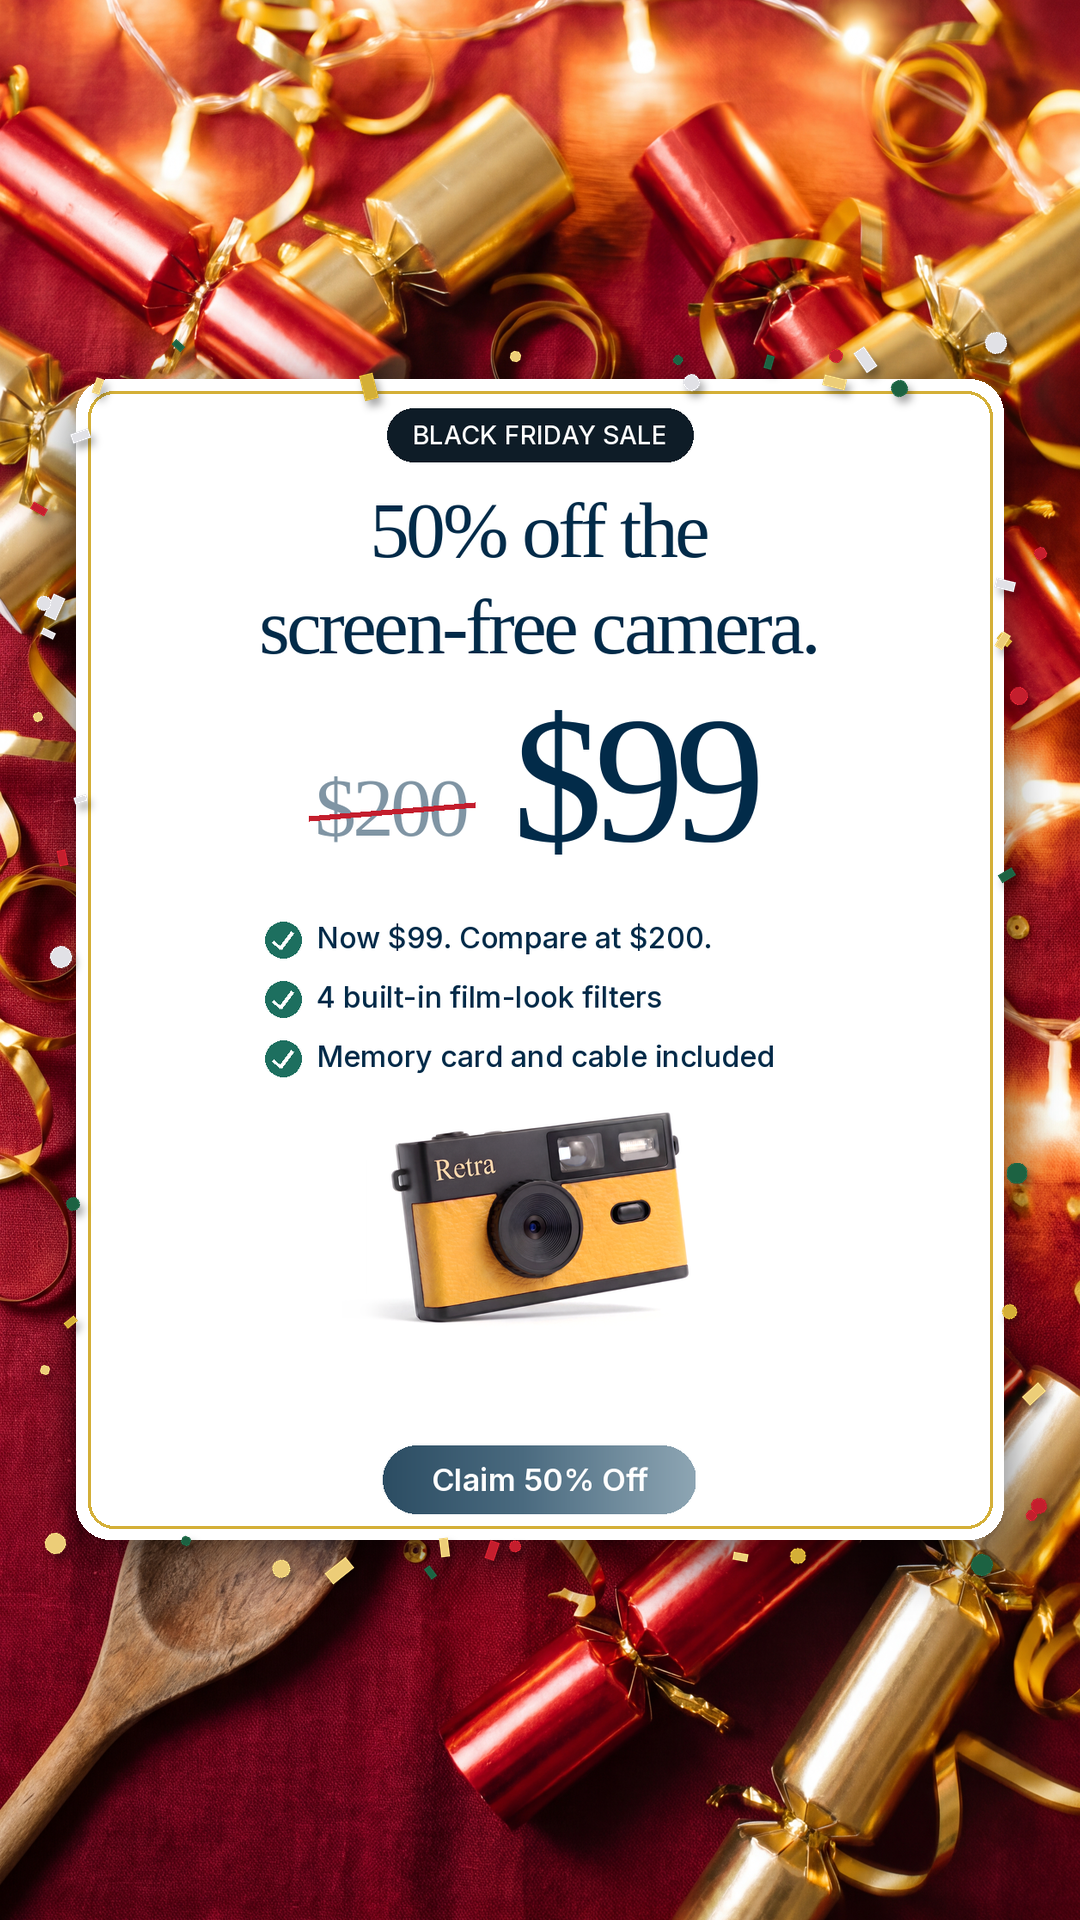
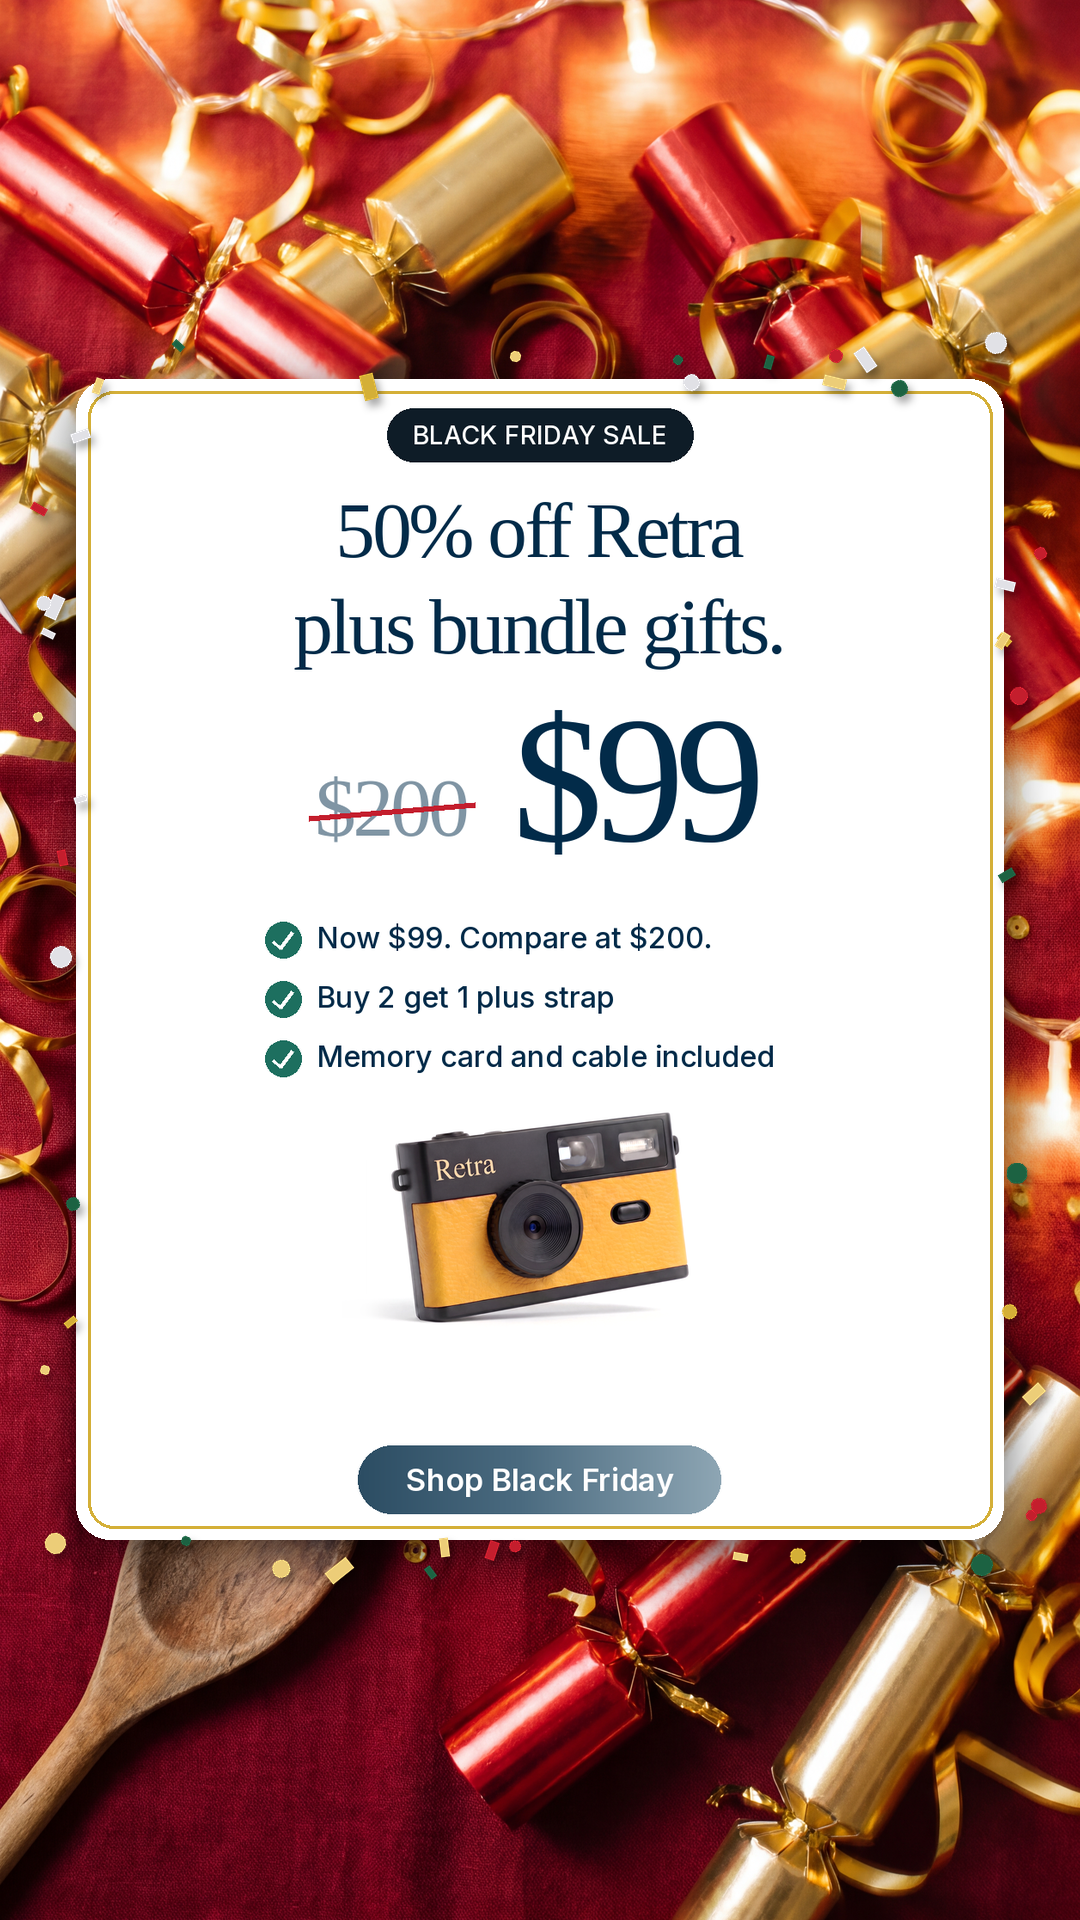
Retra W49: offer statics with bundle gifts (B2G1 + strap, B3G2 + strap + bag), new O8/O9 flat lays
Claude-Session: https://claude.ai/code/session_01Mp8pTs9zpTh5aGe4znSQmT

Changed region(s): [[0.2444, 0.25, 0.7639, 0.3438], [0.3361, 0.75, 0.6722, 0.8125], [0.275, 0.5, 0.6111, 0.5312]]

diff --git a/ads/brands/retra/weeks/2026-W49-angles/gift_render.py b/ads/brands/retra/weeks/2026-W49-angles/gift_render.py
@@ -1,0 +1,82 @@
+"""4K Kie shots for the bundle gifts (Sam 2026-11-27: B2G1 + free woven strap, B3G2 + strap + leather bag).
+Strap reference: the store's product photo (assets/retra/product/gifts/gift_strap.jpg). The store's bag photo 502s on
+the CDN, so the bag is rendered from a description.  python3 gift_render.py [ids...]"""
+import sys
+from concurrent.futures import ThreadPoolExecutor
+import render, batch2
+from render import kie, REPO
+
+WHITE = batch2.WHITE
+STRAP = ("a cream woven cotton camera wrist strap with tan leather end tabs and a small silver clip, exactly as in the"
+         " strap reference photo")
+BAG = ("a compact tan-brown leather camera case shaped to the camera, with a fold-over flap, fine stitching and a small"
+       " press stud, no logo")
+SIX = ["blossom", "sol", "pine", "chalk", "dune"]
+FEST = ("Real overhead photo on a deep red linen party table with scattered gold sequin confetti and warm string-light"
+        " bokeh at the edges, soft festive light, natural shadows.")
+J = {
+    "gift_strap": dict(refs=[], ar="1:1", style=WHITE, prompt=(
+        f"Product photo: {STRAP}, loosely coiled, alone on pure white, centred, nothing else in frame.")),
+    "gift_bag": dict(refs=[], ar="1:1", style=WHITE, prompt=(
+        f"Studio product photo: {BAG}, brand new and spotless, closed, standing upright, three-quarter view, alone on a"
+        " seamless pure white sweep, centred. No hands, no people, no other objects, no wear or scratches.")),
+    "flat_b2g1": dict(refs=["blossom", "sol", "pine"], ar="4:5", style=FEST, prompt=(
+        "Top-down flat lay: three Retra cameras (raspberry pink, mustard yellow, olive green) lying face up in a"
+        f" relaxed diagonal row across the middle of the frame, and {STRAP} coiled beside them on the right. Generous"
+        " space between items; top 25% of the frame is plain table.")),
+    "flat_b3g2": dict(refs=SIX, ar="4:5", style=FEST, prompt=(
+        "Top-down flat lay: five Retra cameras (raspberry pink, mustard yellow, olive green, off-white, caramel brown)"
+        f" lying face up in two neat rows in the middle of the frame, with {STRAP} coiled and {BAG} beside them at the"
+        " lower right. The same red linen table and confetti continue evenly to every edge of the frame (one continuous"
+        " surface, no plain band or seam); keep the upper quarter sparse so text can sit there.")),
+}
+orig = render.build_prompt
+
+
+def bp(job, fix=""):
+    p = orig(job, fix)
+    if not job["refs"]:
+        p = p.replace(", except the gold serif 'Retra' wordmark printed on the camera exactly as in the reference.",
+                      ". No cameras, brand names, wordmarks, logos or lettering anywhere.")
+    return p
+
+
+render.build_prompt = bp
+render.COLOURS["dune"] = "caramel brown"
+render.JOBS.update(J)
+_strap = None
+
+
+def strap_url():
+    global _strap
+    if _strap is None:
+        _strap = kie.upload(REPO / "assets/retra/product/gifts/gift_strap.jpg", "retra")
+    return _strap
+
+
+STRAP_JOBS = {"gift_strap", "flat_b2g1", "flat_b3g2"}
+
+
+def run(k, n=1):
+    import json
+    job = render.JOBS[k]
+    prompt = render.build_prompt(job)
+    imgs = [render.ref_url(c) for c in job["refs"]] + ([strap_url()] if k in STRAP_JOBS else [])
+    if k in STRAP_JOBS:
+        prompt += " The last reference image shows the strap only (ignore its camera and background)."
+    inp = {"prompt": prompt, "image_input": imgs, "aspect_ratio": job["ar"], "resolution": "4K", "output_format": "png"}
+    tid = kie.create("nano-banana-pro", inp)
+    path = kie.download(kie.wait(tid)[0], render.OUT / f"{k}_t{n}.png")
+    with open(render.OUT / "_usage.jsonl", "a") as f:
+        f.write(json.dumps({"ad": k, "try": n, "task_id": tid, "model": "nano-banana-pro", "prompt": prompt}) + "\n")
+    print("done", path.name, flush=True)
+
+
+if __name__ == "__main__":
+    ids = sys.argv[1:] or list(J)
+    strap_url()
+    for i in ids:
+        for c in J[i]["refs"]:
+            render.ref_url(c)
+    with ThreadPoolExecutor(4) as ex:
+        list(ex.map(lambda k: run(k, render.next_try(k)), ids))

diff --git a/ads/brands/retra/weeks/2026-W49-angles/holiday.py b/ads/brands/retra/weeks/2026-W49-angles/holiday.py
@@ -21,6 +21,7 @@ HERE = Path(__file__).resolve().parent
 CON = {c["id"]: c for c in json.load(open(HERE / "copy_holiday.json"))["concepts"]}
 COPY.update(CON)
 PICK = {"h_O5": "h_O5_t2", "h_N3": "h_N3_t2"}  # chosen takes
+b2.PICK.update({"gift_bag": "gift_bag_t2", "flat_b3g2": "flat_b3g2_t2"})
 COL = {}   # concept id -> camera colour key (set in holiday_render.py, mirrored here)
 PRICE_OLD, PRICE_NEW = "$200", "$99"
 RED_ = (196, 30, 45)
@@ -97,7 +98,7 @@ def t3(c):
     gap_sym = 70 if n == 3 else 56
     total = n * cw + (n - 1) * (20 if n == 3 else 10) + gap_sym
     x = (W - total) / 2 + cw / 2
-    cy = y + 270
+    cy = y + (270 if S(c, "bundle").upper().startswith("B2") else 160)
     fsym = tinos(110, -0.02)
     for i in range(n):
         if i == paid:  # the "+" between paid and free
@@ -110,9 +111,44 @@ def t3(c):
         x += cw + (20 if n == 3 else 10)
     d = ImageDraw.Draw(img)
     lab = f"Pay for {paid}. Get {n}."
-    draw_lines(img, [lab], tinos(76, -0.03), 80, cy + 230, INK, "center", 1, None, 920)
-    draw_lines(img, [f"{PRICE_NEW} each (was {PRICE_OLD})"], inter(34, "Medium"), 80, cy + 330, BODY, "center", 1, None, 920)
-    pill(img, S(c, "cta"), inter(36, "SemiBold"), W / 2, 1560, "cta", WHITE, padx=56, pady=18)
+    draw_lines(img, [lab], tinos(76, -0.03), 80, cy + 200, INK, "center", 1, None, 920)
+    draw_lines(img, [f"{PRICE_NEW} each (was {PRICE_OLD})"], inter(34, "Medium"), 80, cy + 292, BODY, "center", 1, None, 920)
+    # Sam 2026-11-27: B2G1 includes the free woven strap; B3G2 the strap + leather bag
+    gifts = GIFTS[:1] if paid == 2 else GIFTS
+    gy = cy + 480
+    gx = [W / 2] if len(gifts) == 1 else [W / 2 - 220, W / 2 + 220]
+    draw_lines(img, ["+ " + ("free gift" if len(gifts) == 1 else "2 free gifts")], tinos(52, -0.02), 80, gy - 105, RED_,
+               "center", 1, None, 920)
+    for (k, name, val), x_ in zip(gifts, gx):
+        g = b2.whiten(k, 300 if len(gifts) == 1 else 240, 0.12)
+        lib.multiply(img, g.convert("RGB"), x_, gy + 30)
+        pill(img, f"FREE {name} \u00b7 {val} value", inter(24, "Bold"), x_, gy + 165, RED_, WHITE, padx=16, pady=8)
+    pill(img, S(c, "cta"), inter(36, "SemiBold"), W / 2, 1585, "cta", WHITE, padx=56, pady=18)
+    return img
+
+
+GIFTS = [("gift_strap", "STRAP", "$29"), ("gift_bag", "BAG", "$50")]
+
+
+# ---------------------------------------------------------------- T11 festive bundle flat lay + gift tags
+def t11(c):
+    k = "flat_b2g1" if c == "O8" else "flat_b3g2"
+    src = b2.R(k)
+    if k == "flat_b3g2":  # Kie left a plain band with a seam across the top quarter
+        pass  # full frame keeps all five cameras; the plain band sits under the headline scrim
+    band = ImageOps.fit(src, (W, 1350), Image.LANCZOS, centering=(0.5, 0.45))
+    img = ImageOps.fit(band, (W, H), Image.LANCZOS).filter(ImageFilter.GaussianBlur(30)).convert("RGBA")
+    img.paste(band, (0, 285))
+    scrim_top(img, 860 if c == "O9" else 760, 245 if c == "O9" else 200)  # O9: hide the plain band's seam
+    y = head(img, S(c, "headline"), 330, WARM, 88, 58, 2, shadow=SH)
+    sub(img, S(c, "sub"), y + 12, WHITE, 36, 26, 2, shadow=SH, weight="Medium")
+    scrim_bottom(img, 1300, 190)
+    gifts = GIFTS[:1] if c == "O8" else GIFTS
+    tags = [f"FREE {n.title()} \u00b7 {v} value" for _, n, v in gifts]
+    xs = [W / 2] if len(tags) == 1 else [W / 2 - 230, W / 2 + 230]
+    for t, x_ in zip(tags, xs):
+        pill(img, t, inter(28, "Bold"), x_, 1478, RED_, WHITE, padx=20, pady=10)
+    pill(img, S(c, "cta"), inter(38, "SemiBold"), W / 2, 1550, "cta", WHITE, padx=56, pady=18)
     return img
 
 
@@ -344,7 +380,7 @@ def party(img, cid):
     return img
 
 
-T = {"T1": t1, "T2": t2, "T3": t3, "T4": t4, "T5": t5, "T6": t6, "T7": t7, "T8": t8, "T9": t9, "T10": t10}
+T = {"T11": t11, "T1": t1, "T2": t2, "T3": t3, "T4": t4, "T5": t5, "T6": t6, "T7": t7, "T8": t8, "T9": t9, "T10": t10}
 
 if __name__ == "__main__":
     ids = sys.argv[1:] or list(CON)

diff --git a/ads/brands/retra/weeks/2026-W49-angles/README.md b/ads/brands/retra/weeks/2026-W49-angles/README.md
@@ -94,3 +94,7 @@ Holiday-party theme (Sam: 'more unique and holiday party'): the 12 white layouts
 rule, ribbon corner on gifting) on five festive backdrops (`festive_render.py`: bg_xmas_green, bg_xmas_red,
 bg_party_redgold, bg_nye_gold, bg_nye_midnight; map in holiday.BG), confetti straddling the card edges; the 8 photo
 ads get confetti on the outer edges.
+Bundle gifts (Sam 2026-11-27): Buy 2 Get 1 Free + free woven strap ($29 value); Buy 3 Get 2 Free + strap and leather bag
+($79). O1-O7 copy revised by StefanBrain to include the gifts; O2/O3 draw the gifts with FREE value pills; new O8/O9 are
+festive flat lays (T11). `gift_render.py`: gift_strap (from the store photo, assets/retra/product/gifts/), gift_bag_t2
+(rendered; the store's bag image returns 502 on the CDN), flat_b2g1, flat_b3g2_t2. Sheet: `output/_sheet_offers_gifts_4x5.jpg`.
